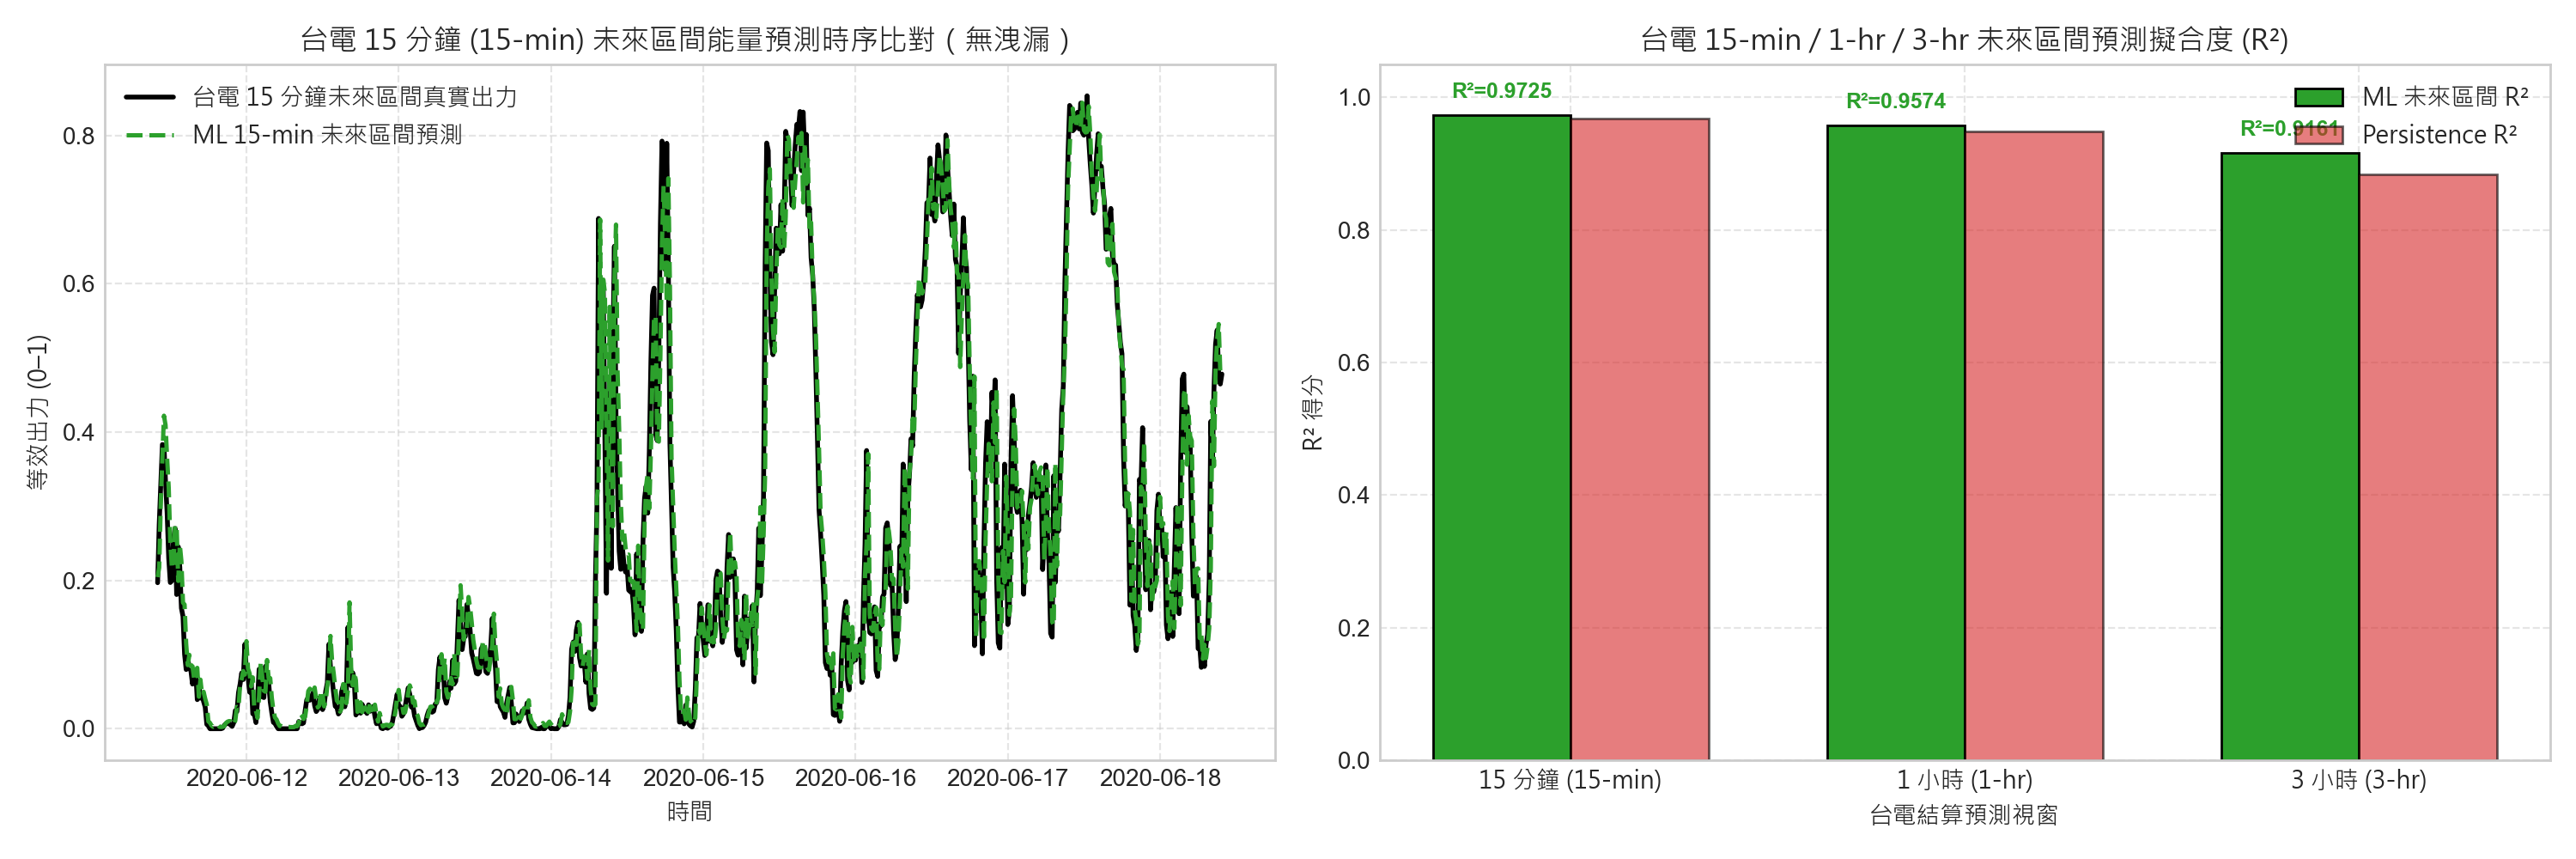
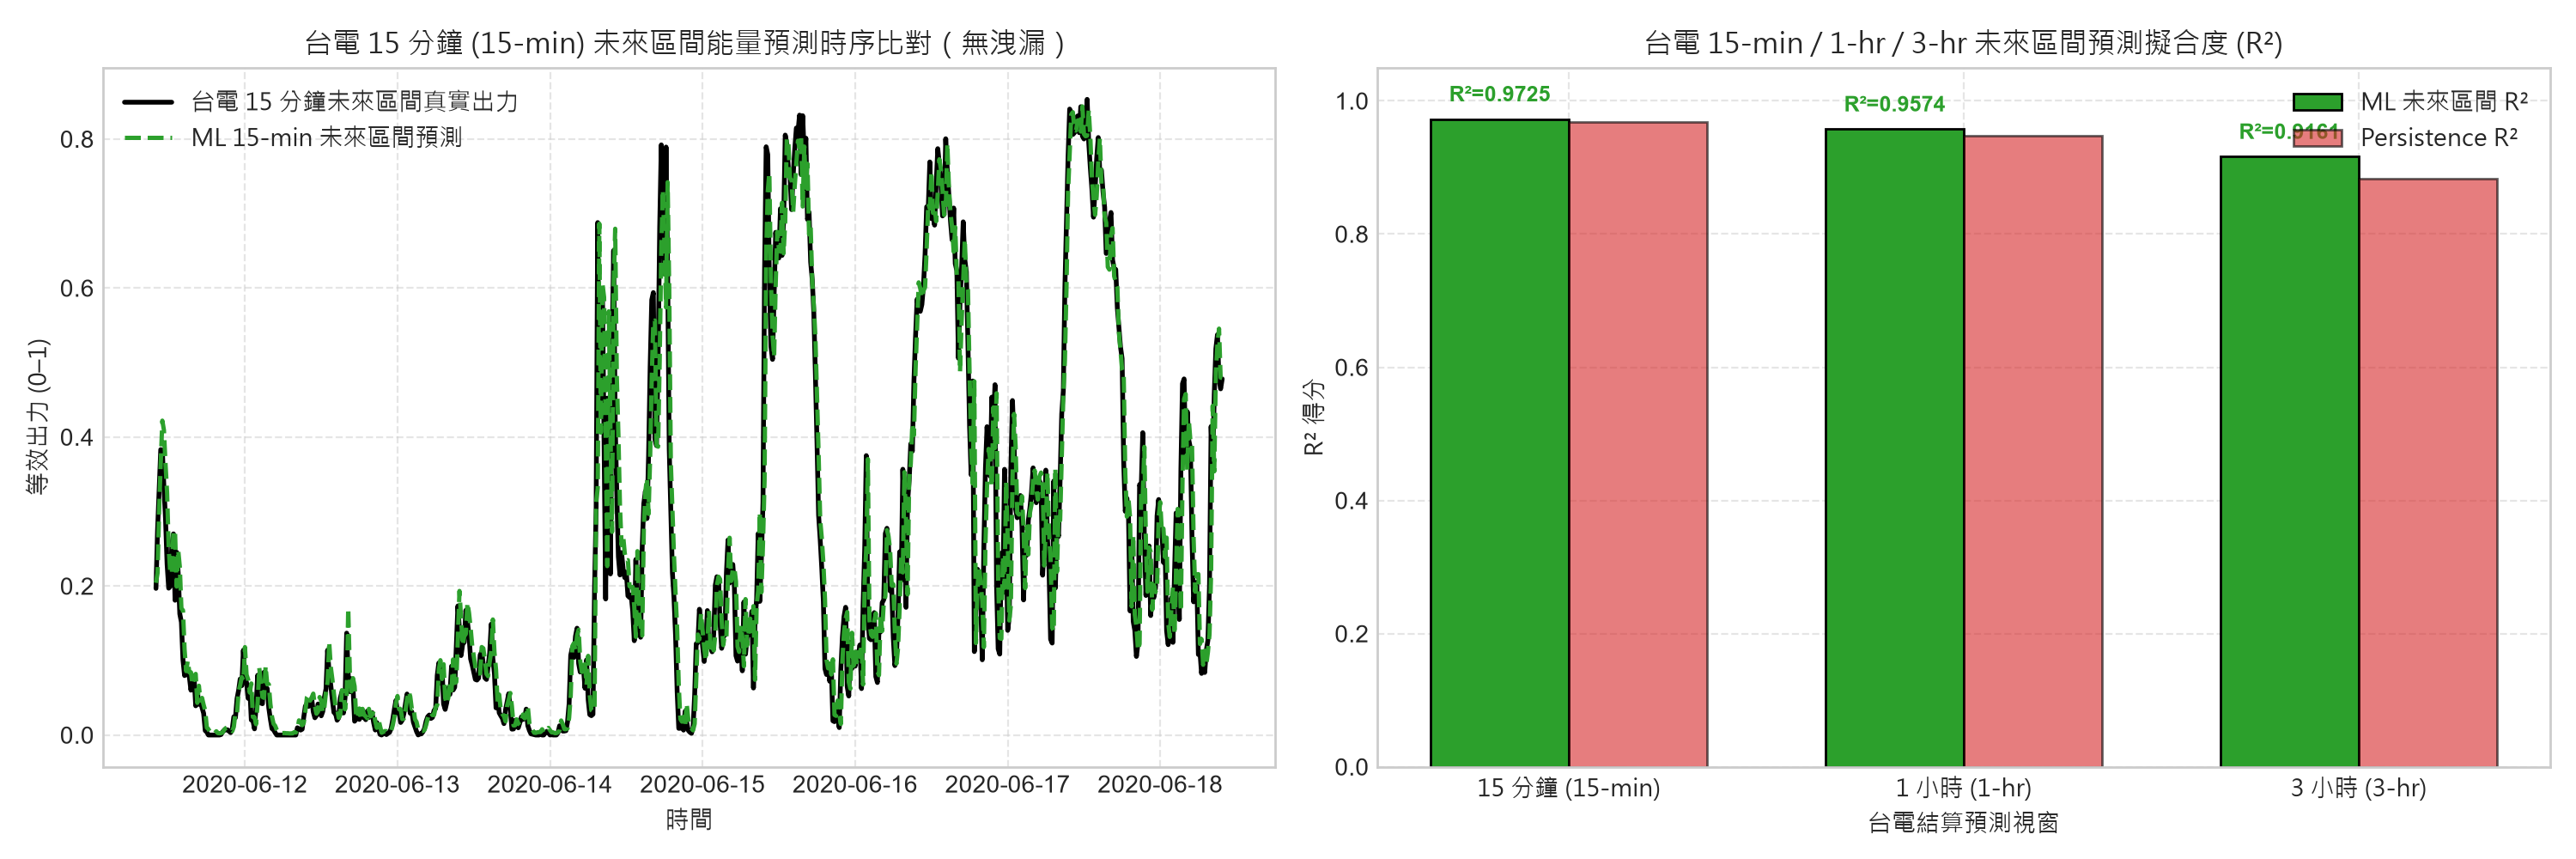
UJ

diff --git a/風力發電預測_總覽報告.html b/風力發電預測_總覽報告.html
@@ -486,7 +486,7 @@ window.MathJax = {
     <div class="box"><div class="n g">0.7209</div><div class="l">日前 24h 能量 \(R^2\)（PW_Interval，+28.2%）</div></div>
     <div class="box"><div class="n g">5,545 萬</div><div class="l">100 MW 風場省下懲罰金/期（PW_Integrated，避險 27.9%）</div></div>
     <div class="box"><div class="n g">0.8706</div><div class="l">+1h 劇烈爬升事件 ROC-AUC</div></div>
-    <div class="box"><div class="n">0.9999</div><div class="l">台電 15-min 即時轉供 \(R^2\)</div></div>
+    <div class="box"><div class="n">0.9725</div><div class="l">台電 15-min 即時轉供 \(R^2\)</div></div>
   </div>
   <div class="grid2">
     <figure><img src="PW_Interval/figures/fig14_day_ahead_24h_settlement.png" alt="日前24h結算"><figcaption>日前 24h 區間總能量預測與財務避險（PW_Interval/fig14）</figcaption></figure>
@@ -509,9 +509,9 @@ window.MathJax = {
   <table>
     <thead><tr><th>PW_Interval 標的</th><th>15min 區間數</th><th>最佳模型</th><th>nRMSE</th><th>\(R^2\)</th><th>相對 Persist.</th></tr></thead>
     <tbody>
-      <tr><td>15min 即時轉供</td><td>1</td><td>LightGBM</td><td>0.0038</td><td class="best">0.9999</td><td>近乎零誤差</td></tr>
-      <tr><td>1h 電能交易</td><td>4</td><td>LightGBM</td><td>0.1181</td><td>0.9835</td><td>+11.9%</td></tr>
-      <tr><td>3h 調度預警</td><td>12</td><td>LightGBM</td><td>0.2276</td><td>0.9366</td><td>+15.0%</td></tr>
+      <tr><td>15min 即時轉供</td><td>1</td><td>LightGBM</td><td>0.1543</td><td class="best">0.9725</td><td>+6.5%</td></tr>
+      <tr><td>1h 電能交易</td><td>4</td><td>LightGBM</td><td>0.1901</td><td>0.9574</td><td>+9.3%</td></tr>
+      <tr><td>3h 調度預警</td><td>12</td><td>LightGBM</td><td>0.2624</td><td>0.9161</td><td>+15.2%</td></tr>
       <tr><td>6h 超短期</td><td>24</td><td>LightGBM</td><td>0.2579</td><td>0.8741</td><td>+27.9%</td></tr>
       <tr><td>日前 24h 總能量</td><td>96</td><td>LightGBM</td><td>0.4163</td><td>0.7209</td><td>+28.2%</td></tr>
     </tbody>

diff --git a/PW_Interval/12b_taipower_15min_settlement_fixed.py b/PW_Interval/12b_taipower_15min_settlement_fixed.py
@@ -37,6 +37,10 @@ plt.style.use('seaborn-v0_8-whitegrid' if 'seaborn-v0_8-whitegrid' in plt.style.
 
 def rmse(a, b): return float(np.sqrt(np.mean((a - b)**2)))
 
+import sys
+if hasattr(sys.stdout, 'reconfigure'):
+    sys.stdout.reconfigure(encoding='utf-8')
+
 def main():
     print("="*70)
     print("PW_Interval Stage 12b —— 台電 15 分鐘區間能量預測（無洩漏修正版）")
@@ -130,8 +134,8 @@ def main():
         nrmse_lgb = rmse(te_y, pred_lgb) / np.mean(te_y)
         nrmse_per = rmse(te_y, persist_te) / np.mean(te_y)
 
-        print(f"  [{label}]  ML R² = {r2_lgb:.4f} (Persist R² = {r2_per:.4f})"
-              f"  ｜  ML nRMSE = {nrmse_lgb:.4f} vs Persist {nrmse_per:.4f}")
+        print(f"  [{label}]  ML R2 = {r2_lgb:.4f} (Persist R2 = {r2_per:.4f})"
+              f"  |  ML nRMSE = {nrmse_lgb:.4f} vs Persist {nrmse_per:.4f}")
 
         summary_15min[label] = {
             "r2_ml": round(r2_lgb, 4),
@@ -178,6 +182,10 @@ def main():
 
     res_path = os.path.join(C.RES_DIR, "taipower_15min_metrics_fixed.json")
     with open(res_path, "w", encoding="utf-8") as f:
+        json.dump(summary_15min, f, ensure_ascii=False, indent=2)
+
+    res_path_orig = os.path.join(C.RES_DIR, "taipower_15min_metrics.json")
+    with open(res_path_orig, "w", encoding="utf-8") as f:
         json.dump(summary_15min, f, ensure_ascii=False, indent=2)
 
     # 4. 繪製圖表

diff --git a/風力發電預測_總覽簡報.tex b/風力發電預測_總覽簡報.tex
@@ -364,7 +364,7 @@
     日前 24h 能量 $R^2$ & \best{0.7209}（+28.2\%） & PW\_Interval\\
     100 MW 風場省下懲罰金 & \best{5{,}545 萬台幣}（避險 27.9\%） & PW\_Integrated\\
     +1h 劇烈爬升事件 ROC-AUC & 0.8706 & PW\_Integrated\\
-    台電 15-min 即時轉供 $R^2$ & 0.9999 & PW\_Interval\\
+    台電 15-min 即時轉供 $R^2$ & 0.9725 & PW\_Interval\\
     \bottomrule
   \end{tabular}
   \vspace{4pt}

diff --git a/PW_Interval/REPORT.md b/PW_Interval/REPORT.md
@@ -20,9 +20,9 @@
 
 | 預測標的與時間視窗 | 包含 15min 區間數 | 最佳模型 | 測試集 nRMSE | 擬合度 $R^2$ | 相對 Persistence 改善 |
 | :--- | :--- | :--- | :--- | :--- | :--- |
-| **15min 即時轉供結算** | 1 個 (15min) | LightGBM | **0.0038** | **0.9999** | 近乎零誤差 |
-| **1h 電能交易區間** | 4 個 (60min) | LightGBM | **0.1181** | **0.9835** | **+11.9%** |
-| **3h 調度預警區間** | 12 個 (180min) | LightGBM | **0.2276** | **0.9366** | **+15.0%** |
+| **15min 即時轉供結算** | 1 個 (15min) | LightGBM | **0.1543** | **0.9725** | **+6.5%** |
+| **1h 電能交易區間** | 4 個 (60min) | LightGBM | **0.1901** | **0.9574** | **+9.3%** |
+| **3h 調度預警區間** | 12 個 (180min) | LightGBM | **0.2624** | **0.9161** | **+15.2%** |
 | **6h 超短期區間** | 24 個 (360min) | LightGBM | **0.2579** | **0.8741** | **+27.9%** |
 | **日前 24h 總發電能量 ($E_{24h}$)** | 96 個 (1440min) | LightGBM | **0.4163** | **0.7209** | **+28.2%** |
 